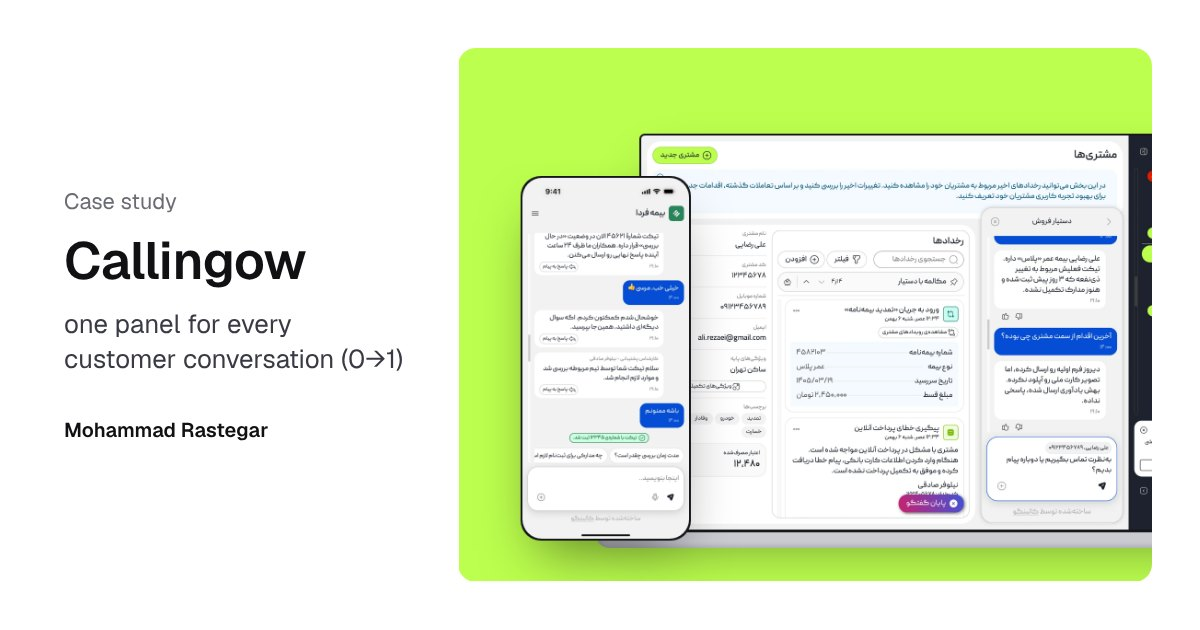
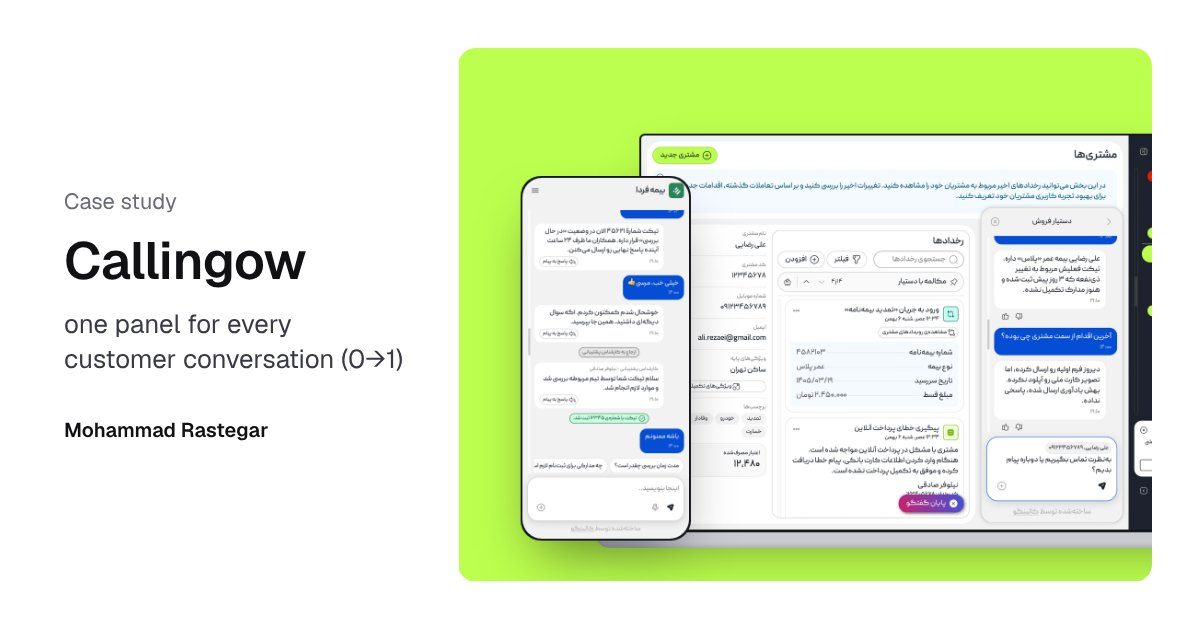
Add files via upload

Changed region(s): [[0.4317, 0.2714, 0.5858, 0.8746]]

diff --git a/callingow.html b/callingow.html
@@ -11,7 +11,7 @@
 <meta property="og:title" content="Callingow — case study · Mohammad Rastegar">
 <meta property="og:description" content="A support and marketing platform that brings customer history, automation and AI assistants into a single place, on web, tablet and mobile.">
 <meta property="og:url" content="https://rastegarzadeh.github.io/callingow.html">
-<meta property="og:image" content="https://rastegarzadeh.github.io/og/callingow.jpg?v=5">
+<meta property="og:image" content="https://rastegarzadeh.github.io/og/callingow.jpg?v=6">
 <meta property="og:image:width" content="1200">
 <meta property="og:image:height" content="630">
 <meta name="twitter:card" content="summary_large_image">
@@ -183,7 +183,7 @@ img{display:block;max-width:100%}
     <section id="decisions" data-screen-label="Key decisions" style="display: flex; flex-direction: column; gap: 24px;">
       <span style="font-size: 13px; font-weight: 600; color: rgb(43, 31, 209); letter-spacing: 0.04em;">05 — Key decisions</span>
       <h2 style="font-weight: 600; font-size: clamp(26px, 2.8vw, 36px); line-height: 1.15; letter-spacing: -0.01em; margin: 0px; text-wrap: balance;">Three decisions that shaped the product</h2>
-      <p style="font-size: 18px; line-height: 1.7; color: rgb(58, 58, 68); margin: 0px; text-wrap: pretty;">Callingow is large, so this is not a tour. These are the three places where the first answer was wrong, or where the obvious design would have hidden how the product works.</p>
+      <p style="font-size: 18px; line-height: 1.7; color: rgb(58, 58, 68); margin: 0px; text-wrap: pretty;">Callingow is a large product, so instead of walking through every screen, I focus on three decisions: one where our first design didn't work, and two where the obvious design would have hidden how the system works.</p>
 
       <div style="display: flex; flex-direction: column; gap: 16px; margin-top: 16px;">
         <span style="font-size: 14px; color: rgb(107, 107, 118);">Decision 1 · Operations</span>
@@ -244,7 +244,7 @@ img{display:block;max-width:100%}
         <span style="font-size: 14px; color: rgb(107, 107, 118);">D · Customer app</span>
         <h3 style="font-size: 26px; font-weight: 600; margin: 0px; line-height: 1.3;">The customer side of the conversation</h3>
         <p style="font-size: 17px; line-height: 1.7; color: rgb(58, 58, 68); margin: 0px; text-wrap: pretty;">The app customers use to talk to the assistant of a business, for mobile and desktop, in light and dark themes. Each business brings its own name and logo. The assistant answers questions and suggests products as cards, a customer can reply to a specific product or message, and the chat shows when a person from the team joins.</p>
-        <figure style="margin: 8px 0px 0px; display: flex; flex-direction: column; gap: 12px;"><div style="background: rgb(242, 243, 248); border-radius: 16px; padding: clamp(20px, 3vw, 32px); display: flex; gap: 20px; justify-content: center; flex-wrap: wrap;"><img loading="lazy" decoding="async" src="assets/cw-app-insurance.webp" alt="Customer chat for an insurance company: the assistant updates a ticket, then a support agent named Niloufar Sadeghi replies, and the ticket is marked as registered" style="width: min(100%, 240px); border-radius: 20px; border: 1px solid rgb(228, 228, 234);"><img loading="lazy" decoding="async" src="assets/cw-app-store.webp" alt="Customer chat for a furniture store: product cards with photo, description and price, and the customer asking about one product by replying to it" style="width: min(100%, 240px); border-radius: 20px; border: 1px solid rgb(228, 228, 234);"></div><figcaption style="font-size: 14px; line-height: 1.6; color: rgb(107, 107, 118);">The same app for two businesses: an insurance company following up a ticket, where a person joins the conversation, and a furniture store where the customer asks about a specific product.</figcaption></figure>
+        <figure style="margin: 8px 0px 0px; display: flex; flex-direction: column; gap: 12px;"><div style="background: rgb(242, 243, 248); border-radius: 16px; padding: clamp(20px, 3vw, 32px); display: flex; gap: 20px; justify-content: center; flex-wrap: wrap;"><img loading="lazy" decoding="async" src="assets/cw-app-insurance-v2.webp" alt="Customer chat for an insurance company: the assistant reports a ticket is under review, a support agent named Niloufar Sadeghi joins, and the ticket is marked as registered" style="width: min(100%, 240px); border-radius: 20px; border: 1px solid rgb(228, 228, 234);"><img loading="lazy" decoding="async" src="assets/cw-app-store-v2.webp" alt="Customer chat for a furniture store: product cards with photo, description and price, and the customer asking about one product by replying to it" style="width: min(100%, 240px); border-radius: 20px; border: 1px solid rgb(228, 228, 234);"></div><figcaption style="font-size: 14px; line-height: 1.6; color: rgb(107, 107, 118);">The same app for two businesses: an insurance company following up a ticket, where a person joins the conversation, and a furniture store where the customer asks about a specific product.</figcaption></figure>
       </div>
 
       <div style="display: flex; flex-direction: column; gap: 16px; margin-top: 40px;">

diff --git a/index.html b/index.html
@@ -11,7 +11,7 @@
 <meta property="og:title" content="Mohammad Rastegar · Product designer">
 <meta property="og:description" content="Product designer who turns complex systems into calm, usable products. Case studies in B2B SaaS, AI products and design systems.">
 <meta property="og:url" content="https://rastegarzadeh.github.io/">
-<meta property="og:image" content="https://rastegarzadeh.github.io/og/index.jpg?v=5">
+<meta property="og:image" content="https://rastegarzadeh.github.io/og/index.jpg?v=6">
 <meta property="og:image:width" content="1200">
 <meta property="og:image:height" content="630">
 <meta name="twitter:card" content="summary_large_image">
@@ -65,7 +65,7 @@ img{display:block;max-width:100%}
       <a href="callingow.html" aria-hidden="true" tabindex="-1" style="display: block;"><div style="position: relative; aspect-ratio: 13 / 10; border-radius: 12px; background: rgb(188, 255, 78); overflow: hidden;"><div style="position: absolute; left: 26%; top: 16%; width: 88%;">
           <div style="background: rgb(22, 23, 27); border-radius: 6px 6px 0px 0px; padding: 2px 2px 3px; box-shadow: rgba(0, 0, 0, 0.45) 0px 30px 60px -20px;"><img src="assets/cw-team-assistant.webp" alt="Callingow team panel: a customer timeline with the team assistant answering a question about that customer" style="width: 100%; border-radius: 4px; display: block;"></div>
           <div style="height: 0px; padding-top: 2.6%; margin: 0px -7%; background: rgb(201, 203, 209); border-radius: 0px 0px 14px 14px; box-shadow: rgba(0, 0, 0, 0.12) 0px -3px 4px inset;"></div>
-        </div><div style="position: absolute; left: 9%; top: 24%; width: 24%; background: rgb(22, 23, 27); border-radius: 12% / 5.5%; padding: 2px; box-shadow: rgba(0, 0, 0, 0.5) 0px 30px 60px -20px;"><img src="assets/cw-app-insurance.webp" alt="Callingow customer app: an insurance company chat on a phone" style="width: 100%; border-radius: 11.7% / 5.4%; display: block;"></div></div></a>
+        </div><div style="position: absolute; left: 9%; top: 24%; width: 24%; background: rgb(22, 23, 27); border-radius: 12% / 5.5%; padding: 2px; box-shadow: rgba(0, 0, 0, 0.5) 0px 30px 60px -20px;"><img src="assets/cw-app-insurance-v2.webp" alt="Callingow customer app: an insurance company chat on a phone" style="width: 100%; border-radius: 11.7% / 5.4%; display: block;"></div></div></a>
     </article>
     <article class="row">
       <div style="display: flex; flex-direction: column; gap: 20px;">

diff --git a/parminhub.html b/parminhub.html
@@ -11,7 +11,7 @@
 <meta property="og:title" content="Parminhub — UI gallery · Mohammad Rastegar">
 <meta property="og:description" content="Parminhub helps students and researchers who are writing a thesis or a paper: consultations by phone, online or in person on lowering similarity scores, editing…">
 <meta property="og:url" content="https://rastegarzadeh.github.io/parminhub.html">
-<meta property="og:image" content="https://rastegarzadeh.github.io/og/parminhub.jpg?v=5">
+<meta property="og:image" content="https://rastegarzadeh.github.io/og/parminhub.jpg?v=6">
 <meta property="og:image:width" content="1200">
 <meta property="og:image:height" content="630">
 <meta name="twitter:card" content="summary_large_image">

diff --git a/padash.html b/padash.html
@@ -11,7 +11,7 @@
 <meta property="og:title" content="Padash — UI gallery · Mohammad Rastegar">
 <meta property="og:description" content="Padash brings a bank card and account into one app: card-to-card transfers with saved cards, account top-ups, and buying units of investment funds, with a clear…">
 <meta property="og:url" content="https://rastegarzadeh.github.io/padash.html">
-<meta property="og:image" content="https://rastegarzadeh.github.io/og/padash.jpg?v=5">
+<meta property="og:image" content="https://rastegarzadeh.github.io/og/padash.jpg?v=6">
 <meta property="og:image:width" content="1200">
 <meta property="og:image:height" content="630">
 <meta name="twitter:card" content="summary_large_image">

diff --git a/tomeo.html b/tomeo.html
@@ -11,7 +11,7 @@
 <meta property="og:title" content="Tomeo — case study · Mohammad Rastegar">
 <meta property="og:description" content="An AI assistant inside Shopify admin that writes product titles, descriptions, tags and social captions, and shows merchants which products need SEO work first.">
 <meta property="og:url" content="https://rastegarzadeh.github.io/tomeo.html">
-<meta property="og:image" content="https://rastegarzadeh.github.io/og/tomeo.jpg?v=5">
+<meta property="og:image" content="https://rastegarzadeh.github.io/og/tomeo.jpg?v=6">
 <meta property="og:image:width" content="1200">
 <meta property="og:image:height" content="630">
 <meta name="twitter:card" content="summary_large_image">

diff --git a/hengam.html b/hengam.html
@@ -11,7 +11,7 @@
 <meta property="og:title" content="Hengam — UI gallery · Mohammad Rastegar">
 <meta property="og:description" content="Hengam is the time tracker we designed for our own team at Gandom. People start a timer on a task, tag it with a project and see where their week went.">
 <meta property="og:url" content="https://rastegarzadeh.github.io/hengam.html">
-<meta property="og:image" content="https://rastegarzadeh.github.io/og/hengam.jpg?v=5">
+<meta property="og:image" content="https://rastegarzadeh.github.io/og/hengam.jpg?v=6">
 <meta property="og:image:width" content="1200">
 <meta property="og:image:height" content="630">
 <meta name="twitter:card" content="summary_large_image">

diff --git a/astaane.html b/astaane.html
@@ -11,7 +11,7 @@
 <meta property="og:title" content="Astaane — case study · Mohammad Rastegar">
 <meta property="og:description" content="A buyer-first property app that replaced endless feeds and “negotiable” prices with curated matches and a clear pricing signal.">
 <meta property="og:url" content="https://rastegarzadeh.github.io/astaane.html">
-<meta property="og:image" content="https://rastegarzadeh.github.io/og/astaane.jpg?v=5">
+<meta property="og:image" content="https://rastegarzadeh.github.io/og/astaane.jpg?v=6">
 <meta property="og:image:width" content="1200">
 <meta property="og:image:height" content="630">
 <meta name="twitter:card" content="summary_large_image">

diff --git a/hydratepal.html b/hydratepal.html
@@ -11,7 +11,7 @@
 <meta property="og:title" content="HydratePal — UI gallery · Mohammad Rastegar">
 <meta property="og:description" content="HydratePal is a small iOS app we built to test how the App Store market responds to a simple utility.">
 <meta property="og:url" content="https://rastegarzadeh.github.io/hydratepal.html">
-<meta property="og:image" content="https://rastegarzadeh.github.io/og/hydratepal.jpg?v=5">
+<meta property="og:image" content="https://rastegarzadeh.github.io/og/hydratepal.jpg?v=6">
 <meta property="og:image:width" content="1200">
 <meta property="og:image:height" content="630">
 <meta name="twitter:card" content="summary_large_image">

diff --git a/landinto.html b/landinto.html
@@ -11,7 +11,7 @@
 <meta property="og:title" content="Landinto — UI gallery · Mohammad Rastegar">
 <meta property="og:description" content="Landinto lets people invest in rental homes by buying shares instead of whole properties.">
 <meta property="og:url" content="https://rastegarzadeh.github.io/landinto.html">
-<meta property="og:image" content="https://rastegarzadeh.github.io/og/landinto.jpg?v=5">
+<meta property="og:image" content="https://rastegarzadeh.github.io/og/landinto.jpg?v=6">
 <meta property="og:image:width" content="1200">
 <meta property="og:image:height" content="630">
 <meta name="twitter:card" content="summary_large_image">
